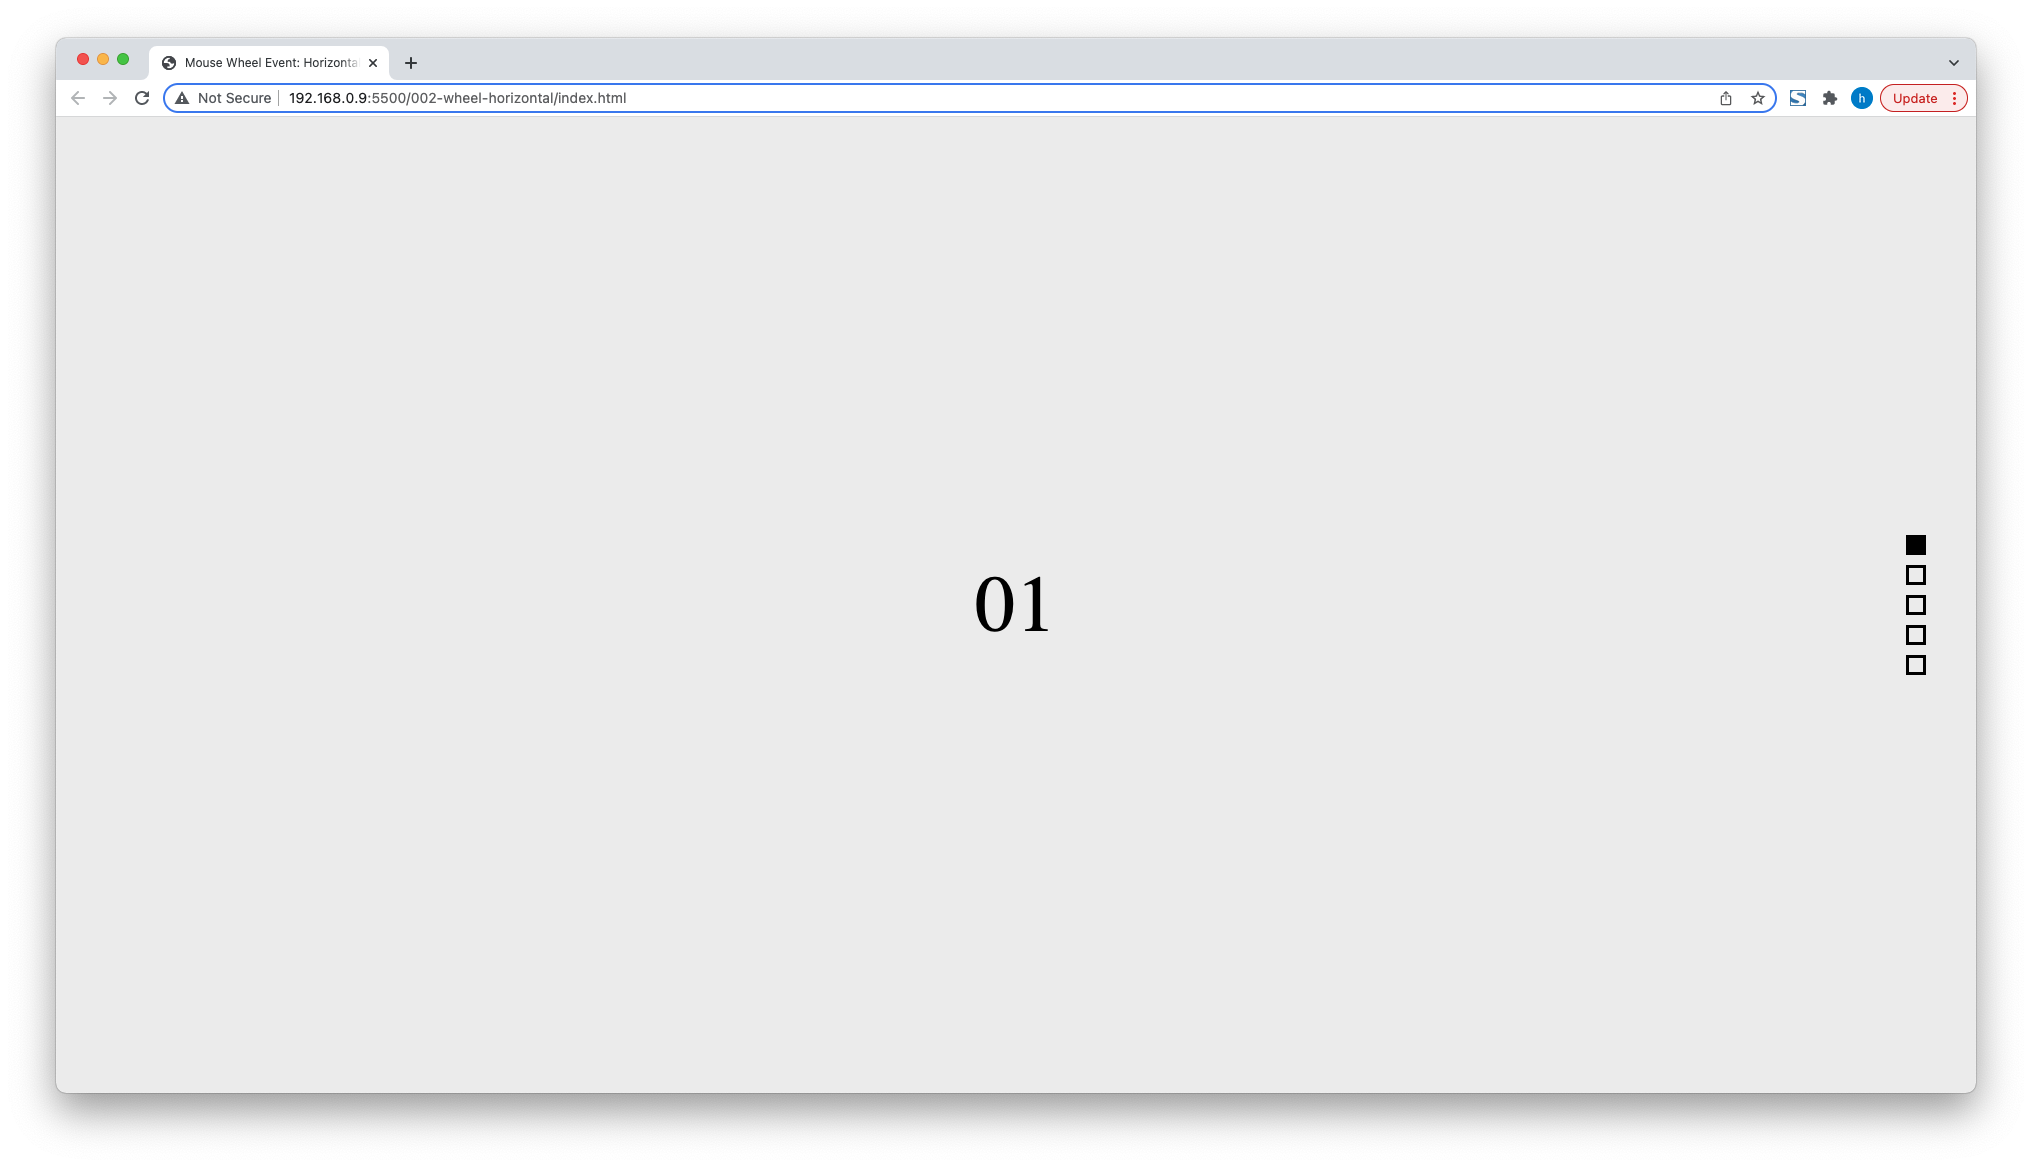
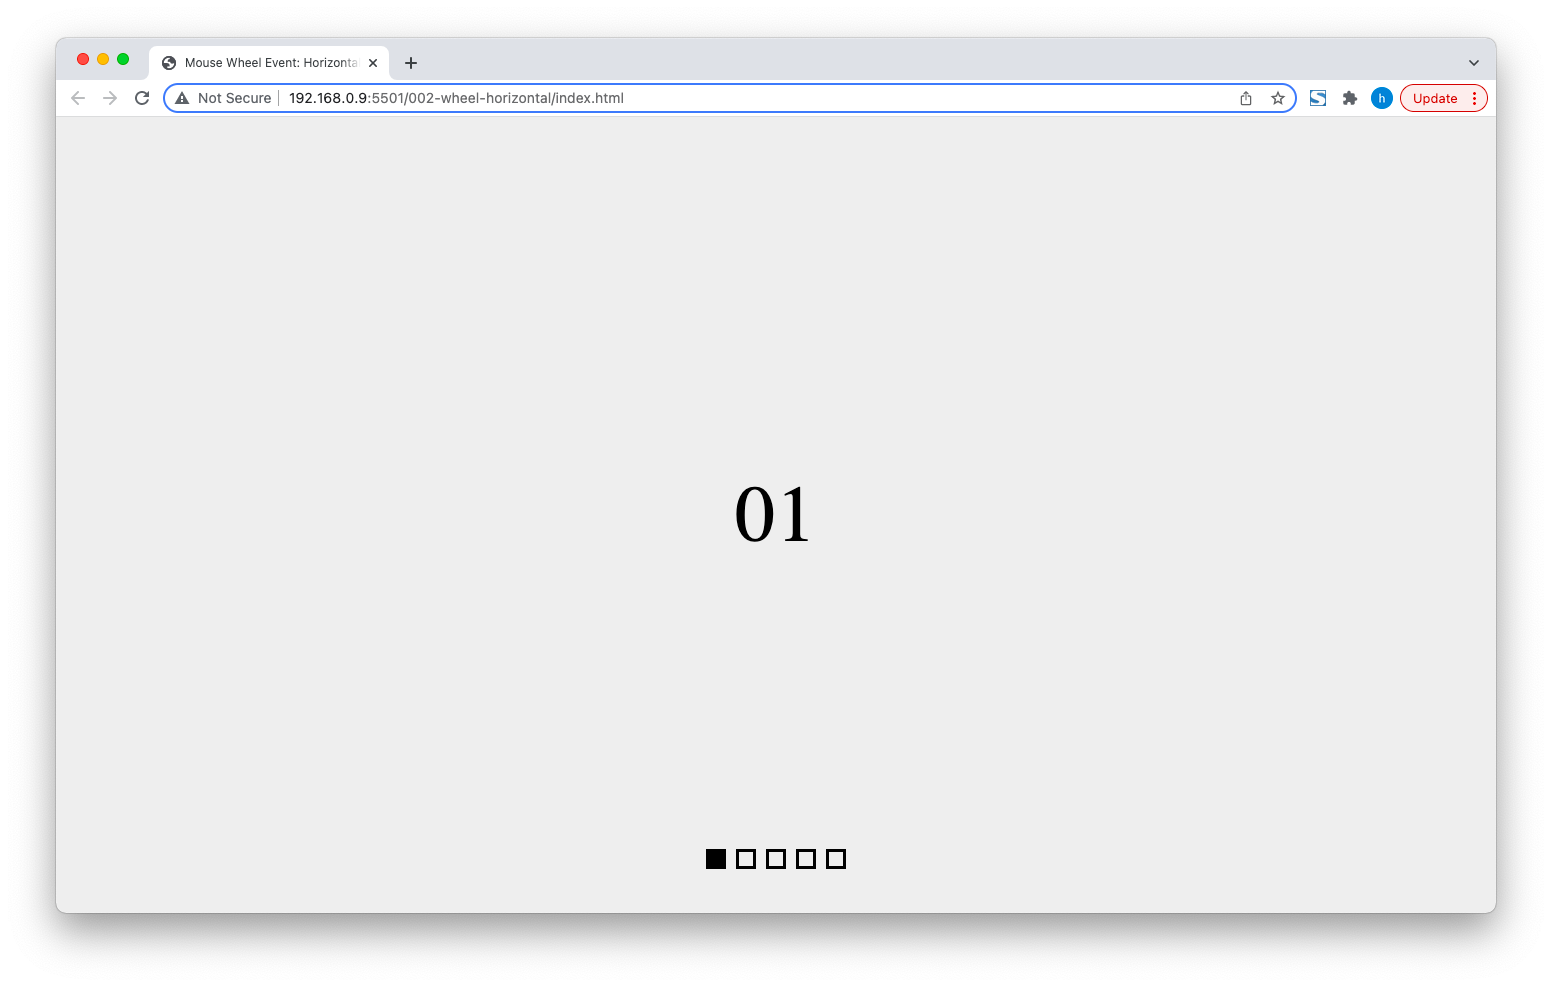
update css and replace demo image

Changed region(s): [[0.0309, 0.0304, 0.9897, 0.9726], [0.4639, 0.4863, 0.5258, 0.5471], [0.433, 0.8511, 0.5567, 0.8815]]

diff --git a/002-wheel-horizontal/css/style.css b/002-wheel-horizontal/css/style.css
@@ -30,7 +30,7 @@ section div {
 }
 aside {
   position: absolute;
-  top: 0;
+  bottom: 5%;
   left: 50%;
   transform: translate(-50%, 0);
   margin-top: 30px;
